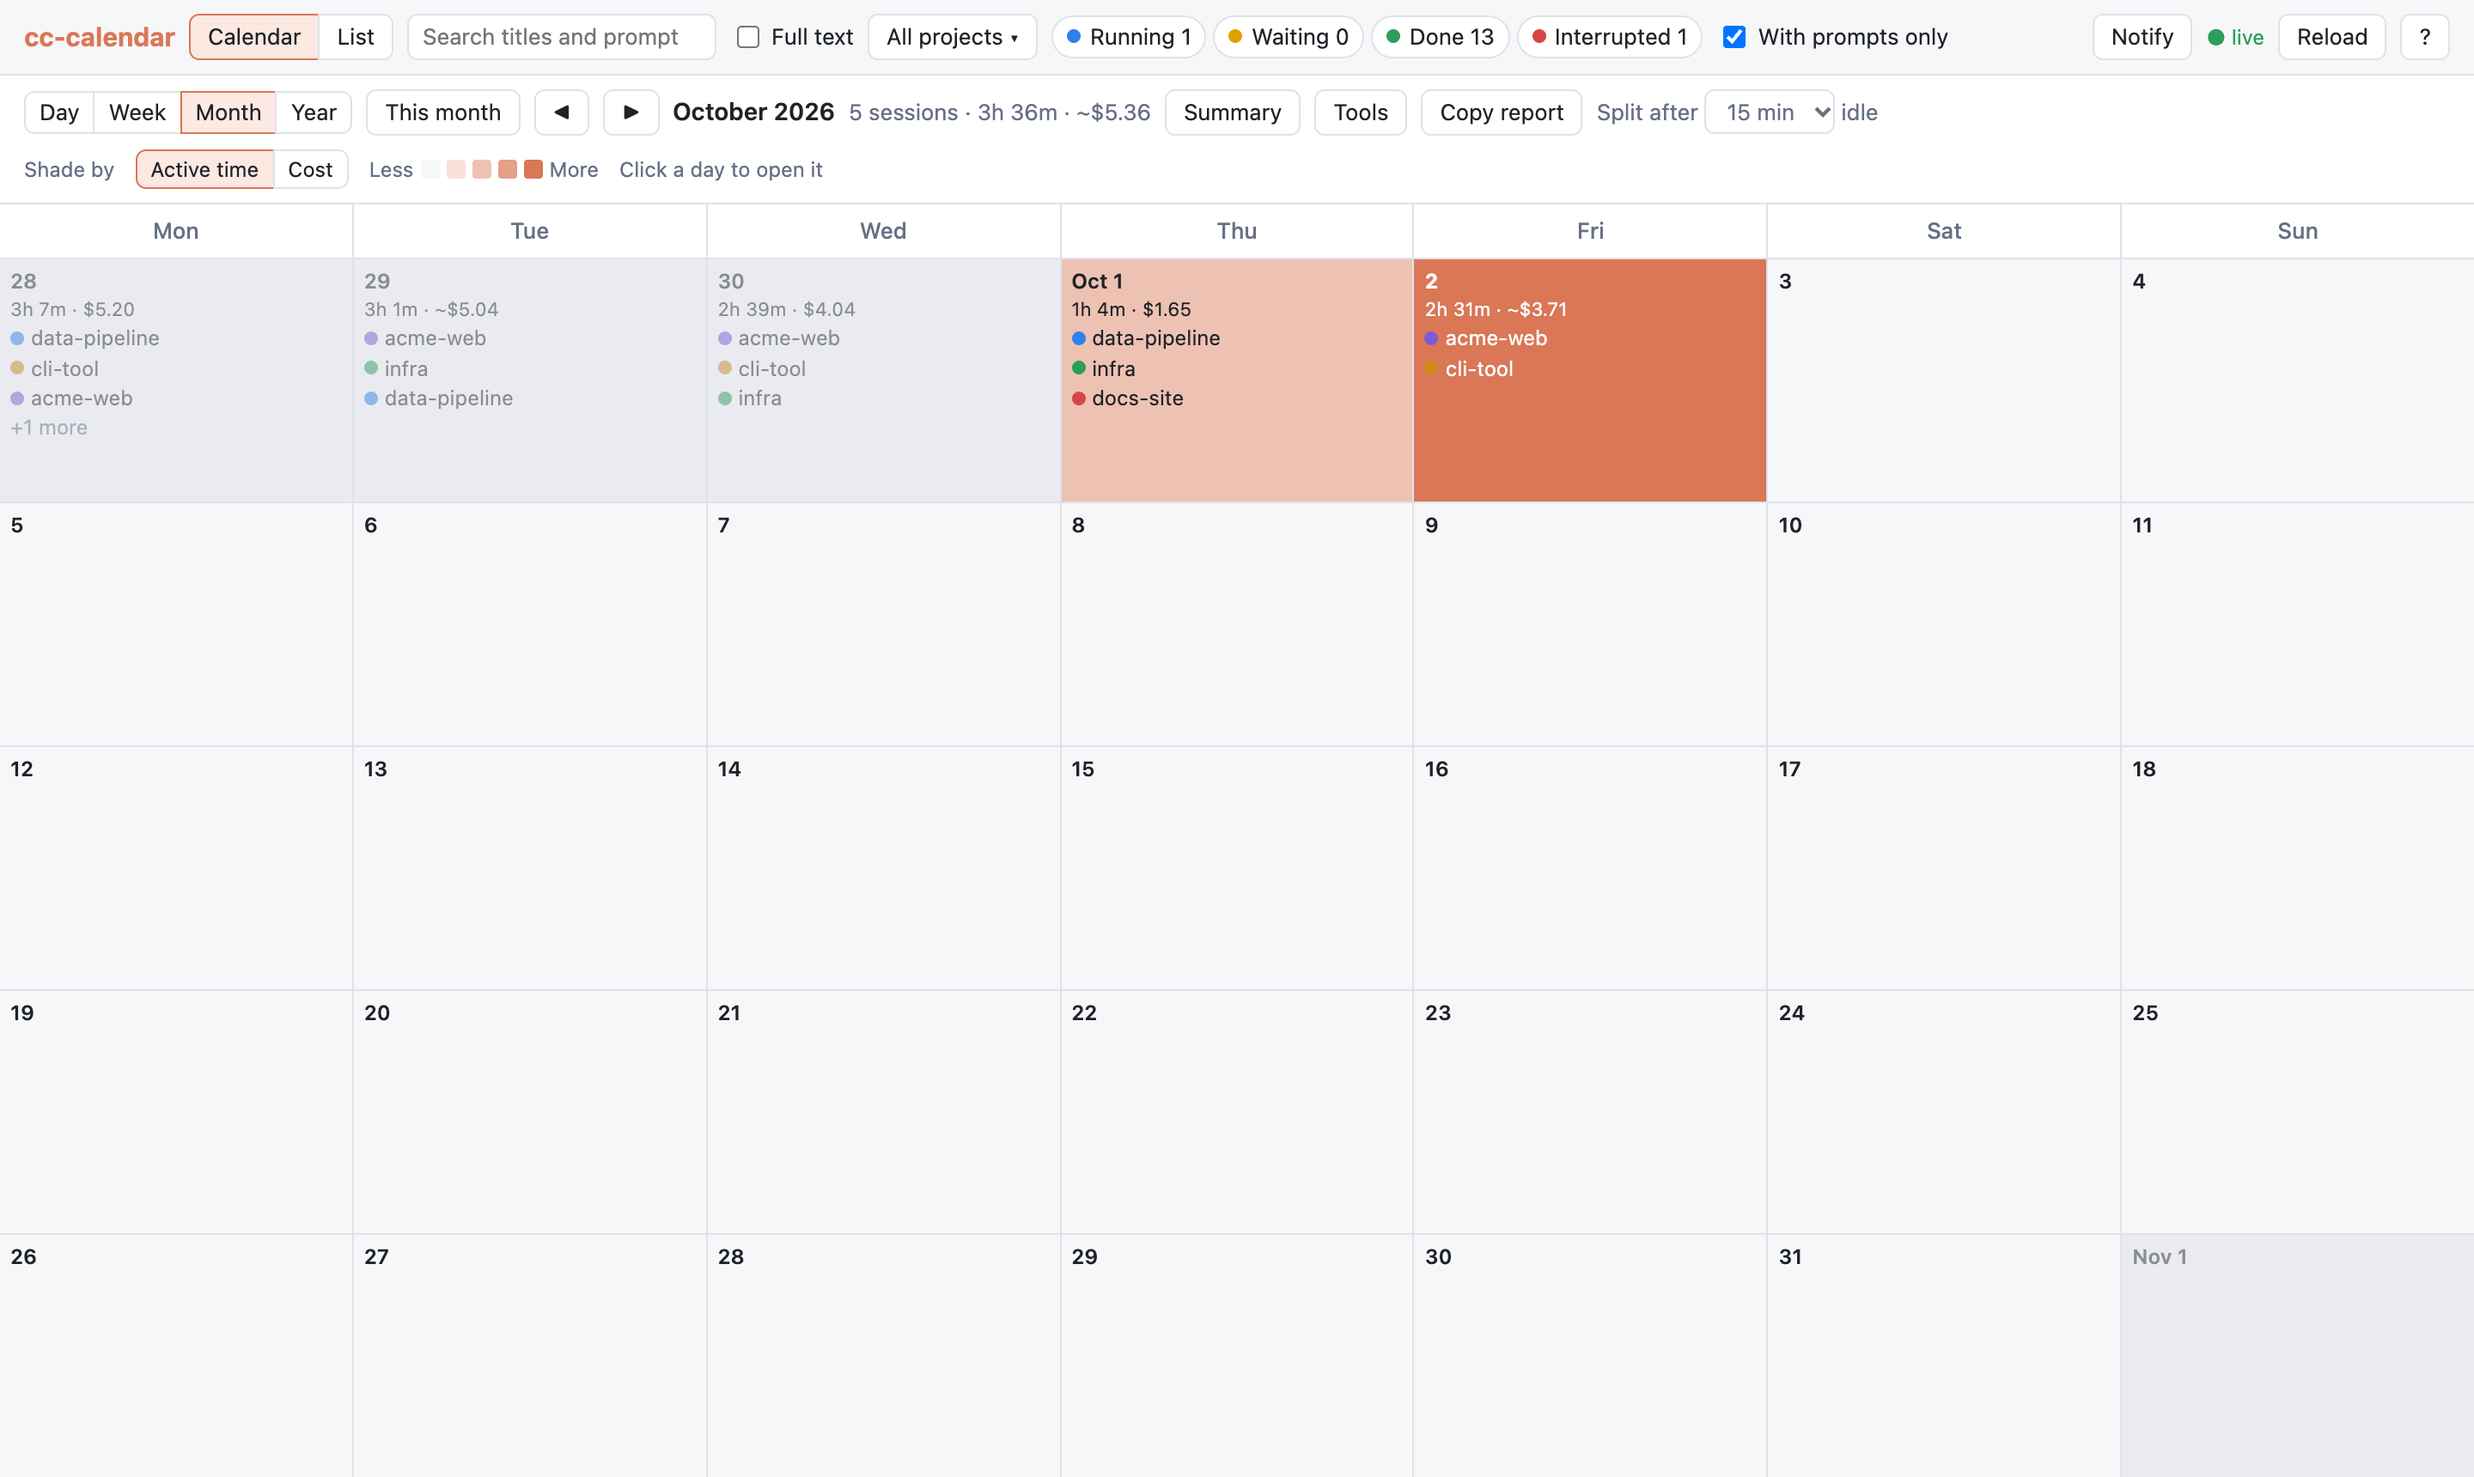
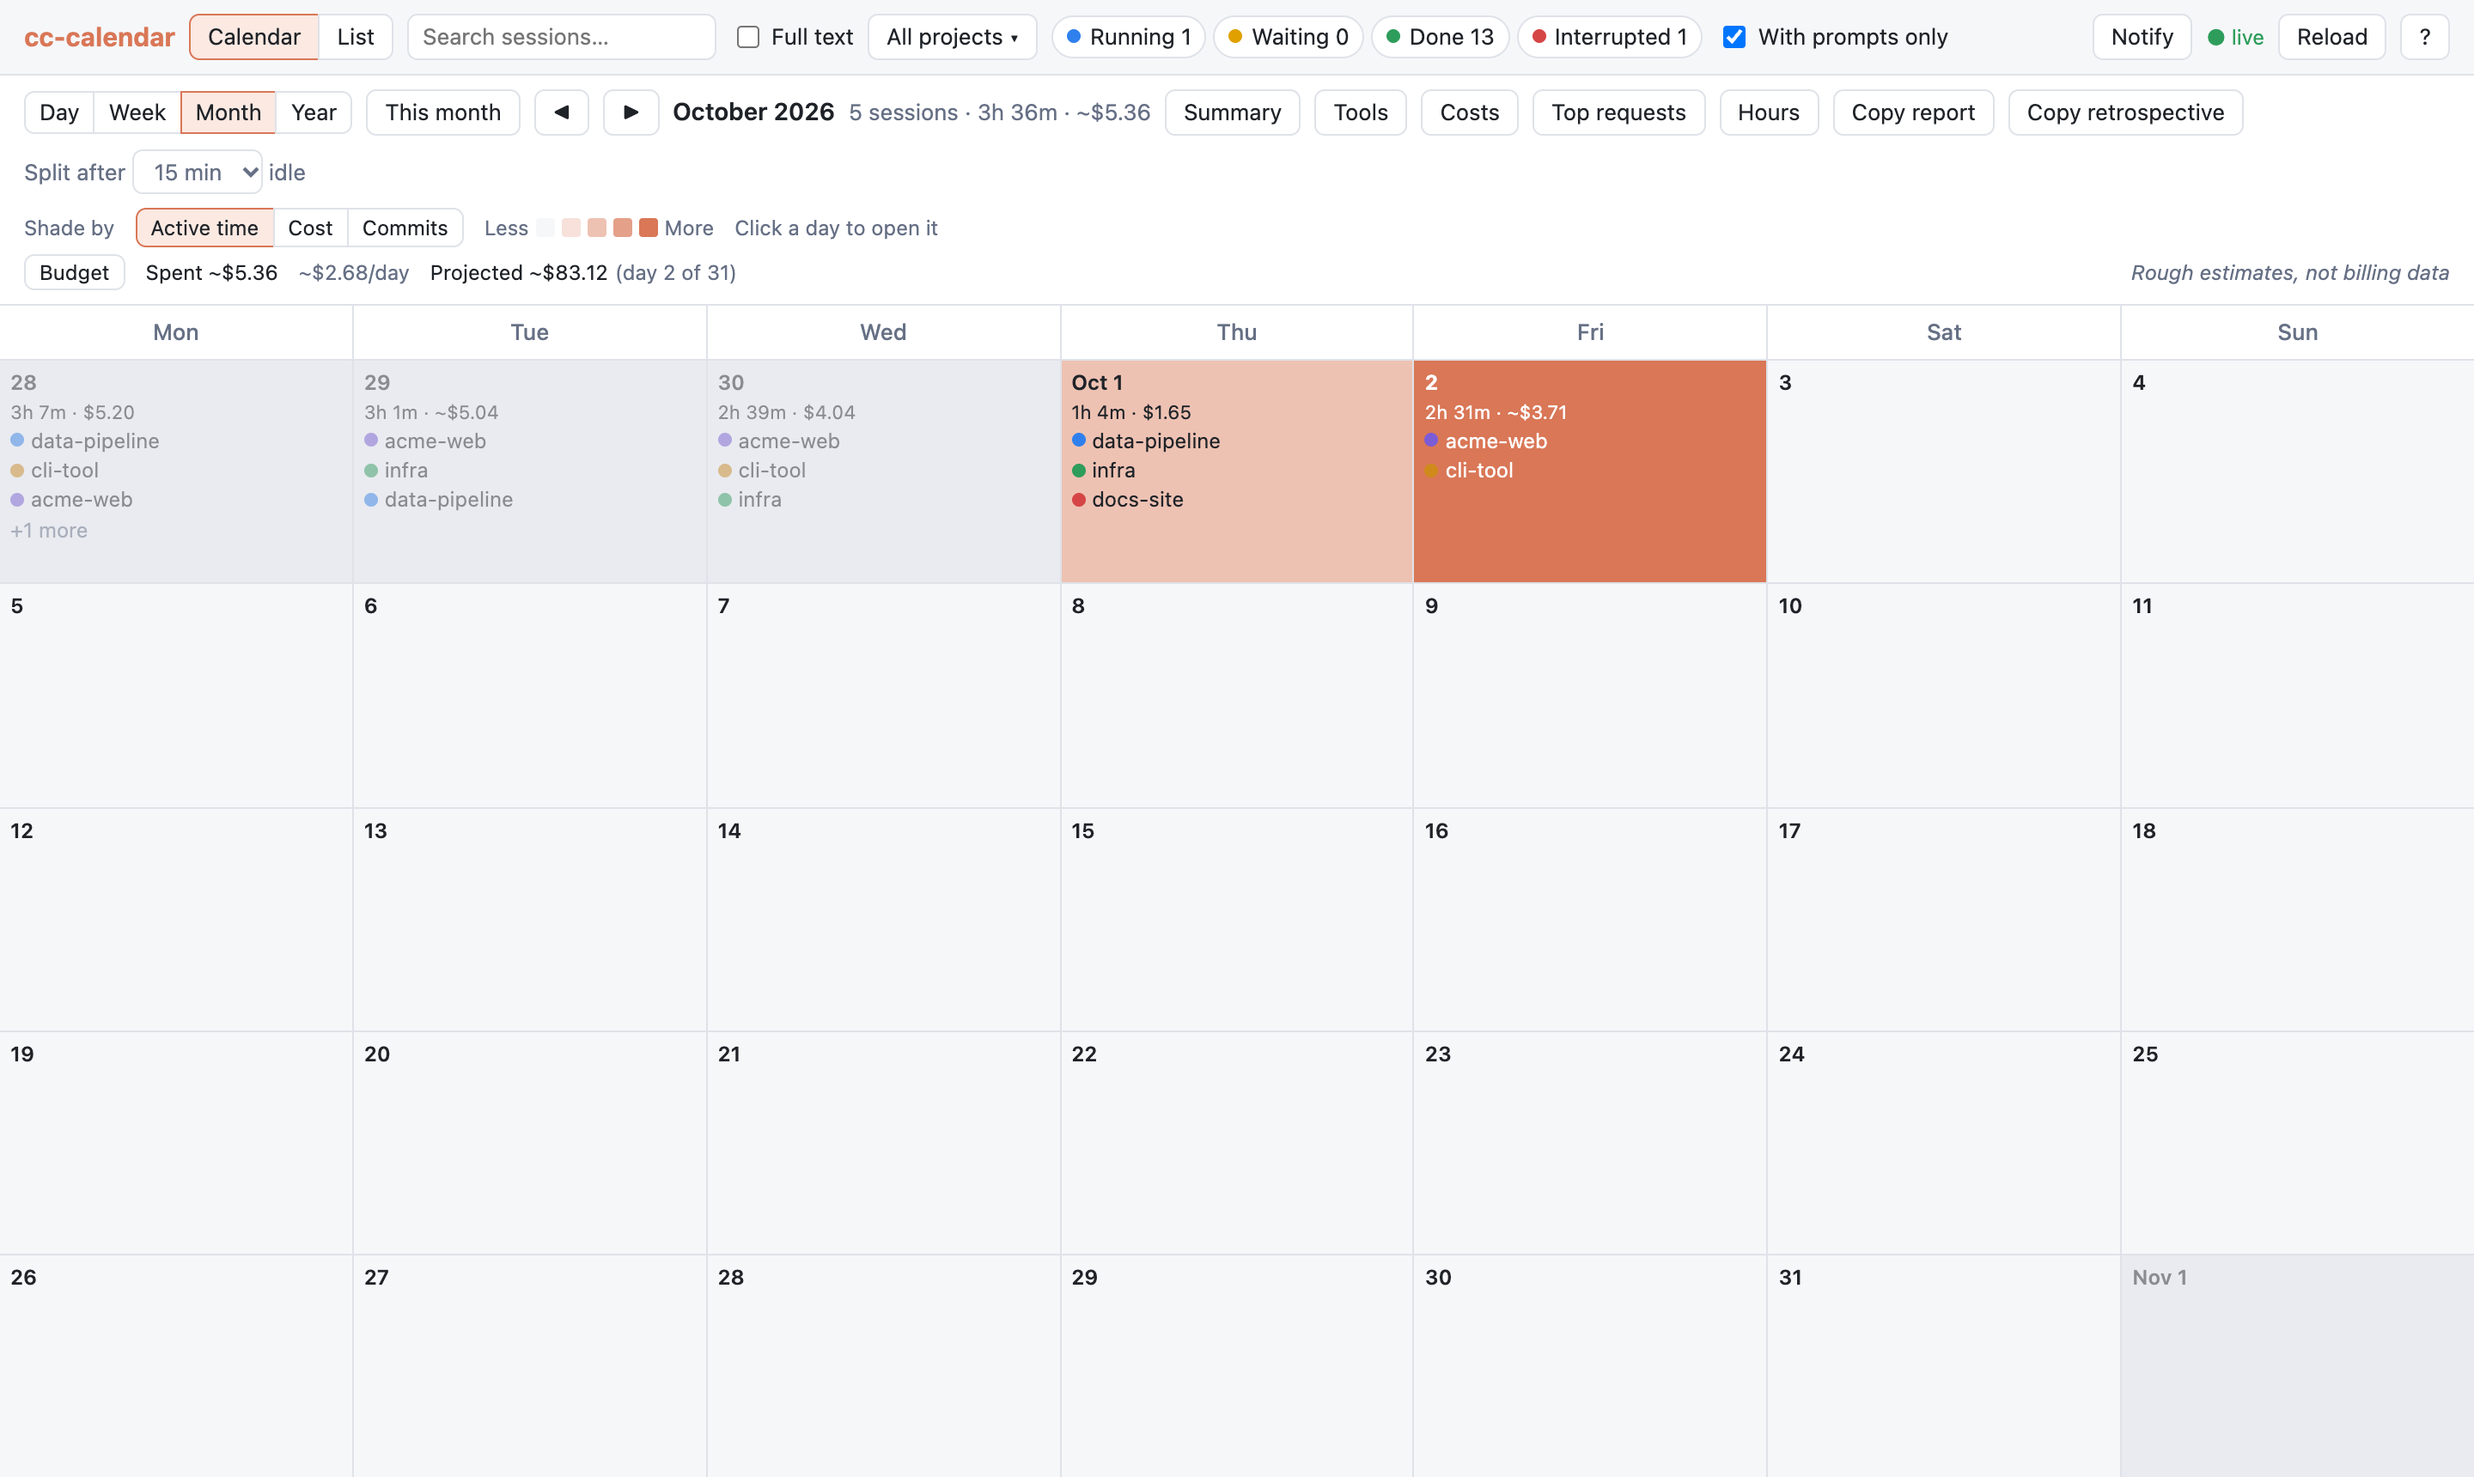
Add screenshots of the newer features to the docs
Shoot the day view's Parallel column, the monthly budget, the Summary,
Tools, Costs, Top requests and Hours panes, and the Friction and Context
size cards from the demo data, and re-shoot the existing images.

Closes #110

diff --git a/scripts/screenshots.py b/scripts/screenshots.py
@@ -1,4 +1,4 @@
-"""Regenerate the README screenshots from fictional demo data.
+"""Regenerate the README and docs screenshots from fictional demo data.
 
     uv run --with playwright python scripts/screenshots.py
 
@@ -135,6 +135,51 @@ def shoot(url: str) -> None:
         page.locator("#list .project-link", has_text="acme-web").first.click()
         page.wait_for_selector("#project-view .project-body")
         page.screenshot(path=OUT / "project.png")
+
+        # Panes above the week calendar, one at a time.
+        page.goto(url + "#view=calendar&span=week&date=2026-09-28")
+        page.wait_for_selector(".bar")
+        for name, pane in [
+            ("summary", "summary"),
+            ("costs", "costs-pane"),
+            ("requests", "requests-pane"),
+            ("hours", "hours-pane"),
+            ("tools", "tools-pane"),
+        ]:
+            toggle = "summary-toggle" if name == "summary" else f"{name}-toggle"
+            page.click(f"#{toggle}")
+            page.wait_for_selector(f"#{pane}:not([hidden]) table, #{pane}:not([hidden]) .hours")
+            page.wait_for_timeout(300)
+            # The whole pane, without its scroll limit.
+            el = page.locator(f"#{pane}")
+            el.evaluate("e => { e.style.maxHeight = 'none'; }")
+            el.screenshot(path=OUT / f"{name}.png")
+            el.evaluate("e => { e.style.maxHeight = ''; }")
+            page.click(f"#{toggle}")
+
+        # The day view with its Parallel column, on a day with overlapping sessions.
+        page.goto(url + "#view=calendar&span=day&date=2026-09-30")
+        page.wait_for_selector(".conc-head")
+        page.evaluate("document.getElementById('calendar').scrollTop = 8 * 64")
+        page.screenshot(path=OUT / "day.png")
+
+        # Friction and context size further down the detail pane.
+        page.goto(url + "#view=calendar&span=week&date=2026-09-28")
+        page.click(f'.bar[data-sid="{demo_data.session_id(6)}"]')
+        page.wait_for_selector("#detail .ctx-chart")
+        page.wait_for_timeout(500)
+        page.locator("#detail .ctx-chart").evaluate("e => e.scrollIntoView({block: 'center'})")
+        page.screenshot(path=OUT / "detail-context.png")
+
+        # The month view with a budget set.
+        page.evaluate(
+            "localStorage.setItem('cc-calendar:budget', '300');"
+            "localStorage.setItem('cc-calendar:planPrice', '200')"
+        )
+        page.goto(url + "#view=calendar&span=month&date=2026-10-01")
+        page.wait_for_selector(".month-day")
+        page.mouse.move(0, 0)  # no hover outline on a day
+        page.screenshot(path=OUT / "budget.png")
         browser.close()
     for f in sorted(OUT.glob("*.png")):
         print(f"{f}  {f.stat().st_size // 1024} KB")

diff --git a/docs/features.md b/docs/features.md
@@ -15,6 +15,9 @@
       the time; hover the header for how long two or more ran at once.
     - Zoom with the − / + buttons or ++ctrl++ / ++cmd++ + mouse wheel; **Reset** goes back to the
       default.
+
+![Day view with the Parallel column](images/day.png)
+
 - **Month and year views**: a month calendar and a GitHub-style yearly heatmap, with one cell
   per day.
     - Cells are shaded by active time, cost or commits; switch with "Shade by". Shaded by commits,
@@ -31,6 +34,9 @@
       \$X vs plan \$Y".
     - Both are kept in this browser's local storage. The figures follow the current filters.
     - These are rough estimates from the logs at API list prices, not billing data.
+
+![Month view with a monthly budget](images/budget.png)
+
 - **Colors** by project, status, model, effort (the level most requests ran at), source (with
   several config directories), tag or cost
   (< \$1 / \$1–5 / \$5–20 / \$20–50 / ≥ \$50).
@@ -87,6 +93,9 @@
     - Subagents run inside their parent's turn and are not counted again. A continued session's
       copy of the session it continues is not counted.
     - A range counts the parts of the spans inside it; Reply counts the waits that ended in it.
+
+![Summary table with working and waiting time](images/summary.png)
+
 - **Markdown report**: "Copy report" copies the displayed range as Markdown. The report covers:
     - active time and cost per project
     - each session's title and tags (notes are left out)
@@ -110,6 +119,9 @@
     - calls made inside subagents
     - MCP servers
     - subagent runs by type, with their tokens and cost
+
+![Tools pane](images/tools.png)
+
 - **Cost breakdown**: the Costs pane splits the displayed range's cost by model and token type:
     - one stacked bar per model: input, output, cache write and cache read
     - hover a bar segment for its cost and tokens
@@ -129,6 +141,9 @@
     level would write different amounts. A session with Claude Code's own cost record is
     re-priced at the same ratio of recorded to estimated cost, so both figures compare on the
     same footing.
+
+![Costs pane with idle re-cache and what-if](images/costs.png)
+
 - **Most expensive requests**: the **Top requests** pane ranks the prompts sent in the displayed
   range by cost.
     - A prompt's cost covers the requests from it until the next prompt, plus the subagents
@@ -139,6 +154,9 @@
     - Click a row to open the transcript at that prompt.
     - When a session has Claude Code's own cost record, its prompts' estimates are scaled to add
       up to it, so they match the session's cost.
+
+![Top requests pane](images/requests.png)
+
 - **Hours of the week**: the Hours pane is a weekday × hour-of-day heatmap of the displayed
   range, to show when you work with Claude Code.
     - Cells are shaded by active time, cost or commits, with the same "Shade by" control as the
@@ -146,6 +164,9 @@
     - Hover a cell for its totals; each row ends with that weekday's total.
     - Hours are in the browser's time zone, and weeks start on Monday like the week view.
     - It follows the current filters.
+
+![Hours pane](images/hours.png)
+
 - **Cache efficiency**: each session shows its cache hit rate and roughly how much caching saved.
   Rates below 90% are highlighted.
 - **Idle re-cache**: the prompt cache expires when no request uses it for a while, so the first
@@ -269,6 +290,8 @@
       context grow this far, and each of those requests costs a few times more. The chart
       draws the 200k line, and the list highlights the session's **Peak ctx**.
     - `/clear` starts a new session, so it ends the chart.
+
+![Friction and context size in the detail pane](images/detail-context.png)
 
 ![Transcript viewer with stats](images/transcript.png)
 

diff --git a/README.md b/README.md
@@ -236,6 +236,10 @@ the logs it covers.
 | ![Detail pane](https://raw.githubusercontent.com/atinfinity/cc-calendar/main/docs/images/detail.png) | ![Transcript viewer](https://raw.githubusercontent.com/atinfinity/cc-calendar/main/docs/images/transcript.png) |
 | **List view** | **Month view** |
 | ![List view](https://raw.githubusercontent.com/atinfinity/cc-calendar/main/docs/images/list.png) | ![Month view](https://raw.githubusercontent.com/atinfinity/cc-calendar/main/docs/images/month.png) |
+| **Day view with Parallel column** | **Month view with a budget** |
+| ![Day view](https://raw.githubusercontent.com/atinfinity/cc-calendar/main/docs/images/day.png) | ![Monthly budget](https://raw.githubusercontent.com/atinfinity/cc-calendar/main/docs/images/budget.png) |
+| **Costs and what-if** | **Friction and context size** |
+| ![Costs pane](https://raw.githubusercontent.com/atinfinity/cc-calendar/main/docs/images/costs.png) | ![Context size](https://raw.githubusercontent.com/atinfinity/cc-calendar/main/docs/images/detail-context.png) |
 
 Screenshots show fictional demo data.
 
